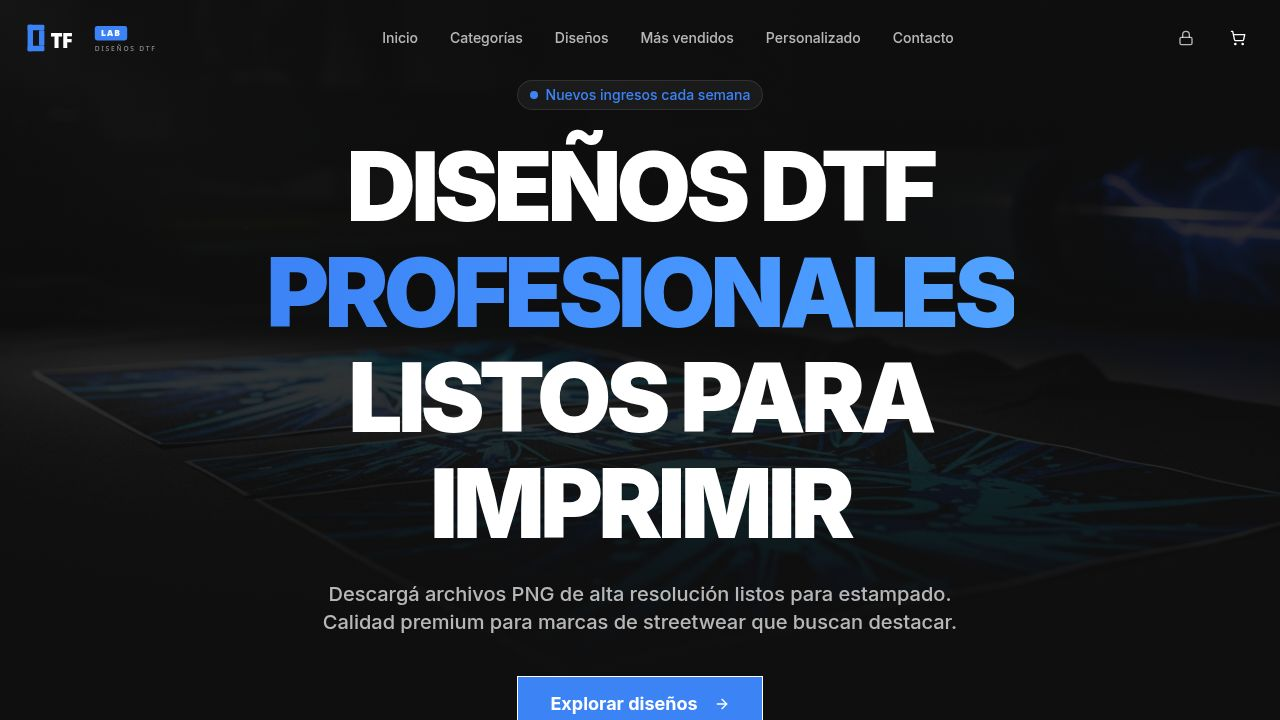
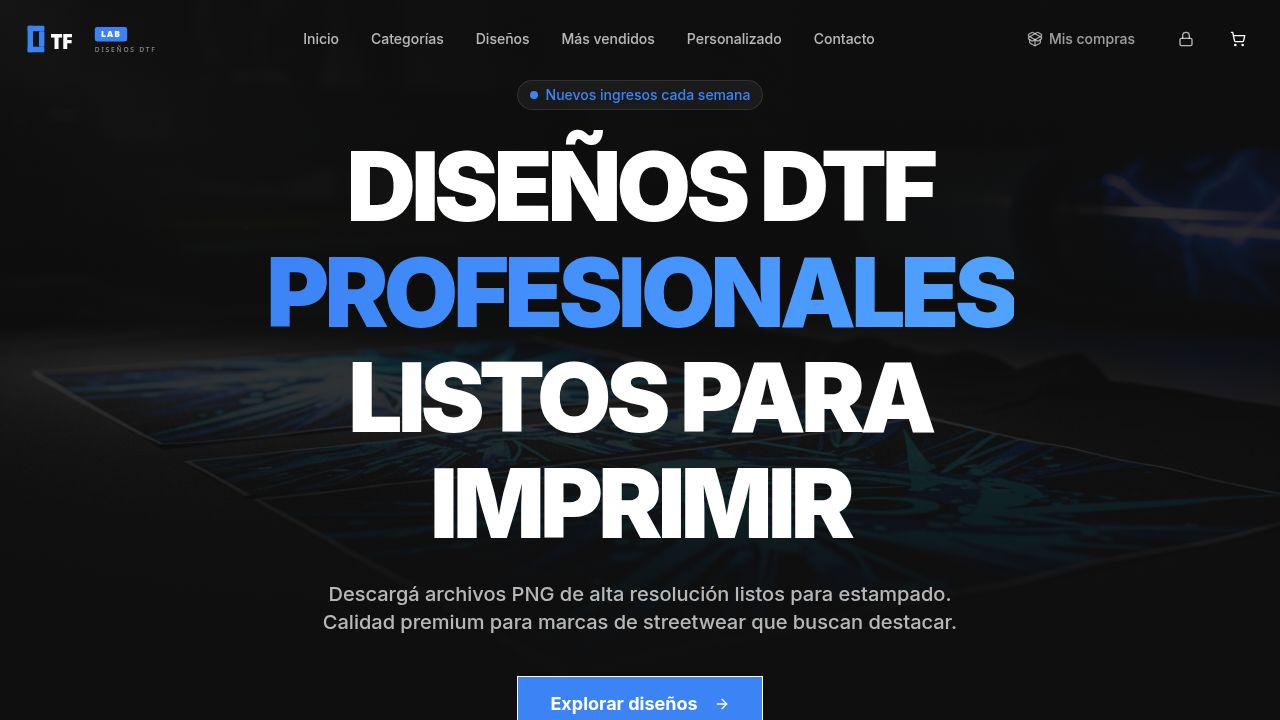
feat: add /mis-compras page so buyers can re-download their files
Task: Permitir que compradores descarguen sus archivos desde el panel de historial de compras

## What was done

### Backend (artifacts/api-server/src/routes/orders.ts)
- Added public GET /orders/by-email?email=... endpoint
- Validates email format with Zod before querying the DB
- Returns all "paid" orders for the given email with: invoiceNumber, customerName,
  items (name/quantity/price/imagePath/filePath), total, paymentMethod, createdAt
- Does NOT expose internal order UUIDs to minimise attack surface
- Placed BEFORE the existing GET /orders/:id route to prevent route shadowing
  (Express would otherwise match "by-email" as the :id param and hit requireAuth)
- Added `import { z } from "zod"` to the imports

### Frontend (artifacts/dreamstorm/src/)
- Created new page: src/pages/MisCompras.tsx
  - Email input form with mail icon, validation, loading spinner
  - Calls GET /api/orders/by-email on submit
  - Displays list of paid orders grouped by invoice, each item with thumbnail,
    name, quantity, price, and a "Descargar" button linking to the file
  - Empty-state and error-state UIs
  - Matches the dark theme (bg-background, white/N text utilities, primary blue)
  - Uses Header/Footer components like all other pages
  - URL building uses toStorageUrl() helper that conditionally prefixes
    /api/storage only for /objects/ or /public-objects/ paths — matching the
    same guard used in DesignMarquee.tsx to handle any legacy paths safely
[…]

Changed region(s): [[0.25, 0.0306, 0.75, 0.0611], [0.7812, 0.0306, 0.9062, 0.0611], [0.0625, 0.0306, 0.0938, 0.0611]]

diff --git a/artifacts/dreamstorm/src/pages/MisCompras.tsx b/artifacts/dreamstorm/src/pages/MisCompras.tsx
@@ -1,0 +1,244 @@
+import { useState, FormEvent } from "react";
+import { Download, Mail, ArrowLeft, ShoppingBag, Loader2, PackageOpen } from "lucide-react";
+import { Button } from "@/components/ui/button";
+import { Input } from "@/components/ui/input";
+import { Header } from "@/components/storefront/Header";
+import { Footer } from "@/components/storefront/Footer";
+import { useLocation } from "wouter";
+
+const BASE = (import.meta.env.BASE_URL ?? "/").replace(/\/$/, "");
+
+interface OrderItem {
+  productId: string;
+  name: string;
+  price: number;
+  quantity: number;
+  imagePath: string;
+  filePath?: string | null;
+}
+
+interface PurchaseOrder {
+  invoiceNumber: number;
+  customerName: string;
+  items: OrderItem[];
+  total: number;
+  paymentMethod: string;
+  createdAt: string;
+}
+
+function formatMethod(method: string): string {
+  const map: Record<string, string> = {
+    mercadopago: "Mercado Pago",
+    uala: "Ualá Bis",
+    paypal: "PayPal",
+  };
+  return map[method] ?? method;
+}
+
+function formatDate(iso: string): string {
+  return new Date(iso).toLocaleDateString("es-AR", {
+    day: "2-digit",
+    month: "long",
+    year: "numeric",
+  });
+}
+
+export default function MisCompras() {
+  const [, navigate] = useLocation();
+  const [email, setEmail] = useState("");
+  const [orders, setOrders] = useState<PurchaseOrder[] | null>(null);
+  const [loading, setLoading] = useState(false);
+  const [error, setError] = useState<string | null>(null);
+  const [searched, setSearched] = useState(false);
+
+  async function handleSubmit(e: FormEvent) {
+    e.preventDefault();
+    const trimmed = email.trim();
+    if (!trimmed) return;
+
+    setLoading(true);
+    setError(null);
+    setOrders(null);
+    setSearched(false);
+
+    try {
+      const res = await fetch(
+        `${BASE}/api/orders/by-email?email=${encodeURIComponent(trimmed)}`
+      );
+      if (!res.ok) {
+        const body = (await res.json()) as { error?: string };
+        setError(body.error ?? "No se pudieron cargar tus compras.");
+        return;
+      }
+      const data = (await res.json()) as PurchaseOrder[];
+      setOrders(data);
+      setSearched(true);
+    } catch {
+      setError("No se pudo conectar al servidor. Intentá de nuevo.");
+    } finally {
+      setLoading(false);
+    }
+  }
+
+  function toStorageUrl(path: string): string {
+    if (path.startsWith("/objects/") || path.startsWith("/public-objects/")) {
+      return `${BASE}/api/storage${path}`;
+    }
+    return path;
+  }
+
+  function downloadUrl(item: OrderItem): string {
+    return toStorageUrl(item.filePath ?? item.imagePath);
+  }
+
+  return (
+    <main className="min-h-screen bg-background flex flex-col font-sans">
+      <Header />
+
+      <div className="flex-1 px-4 py-16 max-w-2xl mx-auto w-full">
+        <button
+          onClick={() => navigate("/")}
+          className="flex items-center gap-2 text-white/40 hover:text-white/70 text-sm mb-10 transition-colors"
+        >
+          <ArrowLeft className="w-4 h-4" />
+          Volver al catálogo
+        </button>
+
+        <div className="mb-10">
+          <div className="flex items-center gap-3 mb-3">
+            <div className="w-10 h-10 bg-primary/15 rounded-lg flex items-center justify-center">
+              <ShoppingBag className="w-5 h-5 text-primary" />
+            </div>
+            <h1 className="text-3xl font-black uppercase tracking-tight text-white">
+              Mis Compras
+            </h1>
+          </div>
+          <p className="text-white/50 text-sm leading-relaxed">
+            Ingresá el email con el que realizaste tu compra para volver a descargar tus diseños.
+          </p>
+        </div>
+
+        <form onSubmit={handleSubmit} className="flex gap-3 mb-10">
+          <div className="relative flex-1">
+            <Mail className="absolute left-3 top-1/2 -translate-y-1/2 w-4 h-4 text-white/30 pointer-events-none" />
+            <Input
+              type="email"
+              placeholder="[email redacted]"
+              value={email}
+              onChange={(e) => setEmail(e.target.value)}
+              required
+              className="pl-10 bg-white/5 border-white/10 text-white placeholder:text-white/30 focus:border-primary"
+            />
+          </div>
+          <Button
+            type="submit"
+            disabled={loading}
+            className="bg-primary hover:bg-primary/90 text-white font-bold uppercase tracking-wider px-6 shrink-0"
+          >
+            {loading ? (
+              <Loader2 className="w-4 h-4 animate-spin" />
+            ) : (
+              "Buscar"
+            )}
+          </Button>
+        </form>
+
+        {error && (
+          <div className="bg-red-500/10 border border-red-500/20 rounded-lg px-4 py-3 text-red-400 text-sm mb-8">
+            {error}
+          </div>
+        )}
+
+        {searched && orders !== null && orders.length === 0 && (
+          <div className="text-center py-20">
+            <div className="w-20 h-20 bg-white/5 rounded-full flex items-center justify-center mx-auto mb-5">
+              <PackageOpen className="w-9 h-9 text-white/20" />
+            </div>
+            <p className="text-white/40 font-medium">No encontramos compras para ese email.</p>
+            <p className="text-white/25 text-sm mt-1">
+              Revisá que el email sea el mismo que usaste al comprar.
+            </p>
+          </div>
+        )}
+
+        {orders && orders.length > 0 && (
+          <div className="space-y-6">
+            <p className="text-white/40 text-sm">
+              {orders.length === 1
+                ? "1 compra encontrada"
+                : `${orders.length} compras encontradas`}
+            </p>
+
+            {orders.map((order) => (
+              <div
+                key={order.invoiceNumber}
+                className="bg-white/[0.03] border border-white/10 rounded-xl overflow-hidden"
+              >
+                <div className="flex items-center justify-between px-5 py-4 border-b border-white/8 bg-white/[0.02]">
+                  <div>
+                    <span className="text-xs font-mono text-white/30 tracking-widest uppercase">
+                      Factura N°
+                    </span>
+                    <span className="ml-2 text-white font-black text-base font-mono">
+                      {String(order.invoiceNumber).padStart(6, "0")}
+                    </span>
+                  </div>
+                  <div className="text-right">
+                    <p className="text-white/30 text-xs">{formatDate(order.createdAt)}</p>
+                    <p className="text-white/50 text-xs mt-0.5">{formatMethod(order.paymentMethod)}</p>
+                  </div>
+                </div>
+
+                <div className="divide-y divide-white/[0.06]">
+                  {order.items.map((item, idx) => (
+                    <div
+                      key={idx}
+                      className="flex items-center justify-between px-5 py-4 gap-4"
+                    >
+                      <div className="flex items-center gap-4 min-w-0">
+                        <img
+                          src={toStorageUrl(item.imagePath)}
+                          alt={item.name}
+                          className="w-12 h-12 rounded-md object-cover bg-white/5 shrink-0"
+                          onError={(e) => {
+                            (e.currentTarget as HTMLImageElement).style.display = "none";
+                          }}
+                        />
+                        <div className="min-w-0">
+                          <p className="text-white text-sm font-semibold truncate">
+                            {item.name}
+                          </p>
+                          <p className="text-white/35 text-xs mt-0.5">
+                            Cant. {item.quantity} · ${item.price.toLocaleString("es-AR")} ARS c/u
+                          </p>
+                        </div>
+                      </div>
+
+                      <a
+                        href={downloadUrl(item)}
+                        download
+                        className="flex items-center gap-2 bg-primary/15 hover:bg-primary/25 text-primary border border-primary/20 hover:border-primary/40 rounded-lg px-3 py-2 text-xs font-bold uppercase tracking-wider transition-colors shrink-0"
+                      >
+                        <Download className="w-3.5 h-3.5" />
+                        Descargar
+                      </a>
+                    </div>
+                  ))}
+                </div>
+
+                <div className="px-5 py-3 border-t border-white/[0.06] flex justify-end">
+                  <span className="text-white/30 text-xs mr-2">Total pagado:</span>
+                  <span className="text-primary font-black text-sm">
+                    ${order.total.toLocaleString("es-AR")} ARS
+                  </span>
+                </div>
+              </div>
+            ))}
+          </div>
+        )}
+      </div>
+
+      <Footer />
+    </main>
+  );
+}

diff --git a/artifacts/api-server/src/routes/orders.ts b/artifacts/api-server/src/routes/orders.ts
@@ -1,5 +1,6 @@
 import { Router, type IRouter } from "express";
 import { eq, desc, sql, and, gte } from "drizzle-orm";
+import { z } from "zod";
 import { db, ordersTable } from "@workspace/db";
 import type { OrderItem } from "@workspace/db";
 import { CreateOrderBody, GetOrderParams } from "@workspace/api-zod";
@@ -156,6 +157,32 @@ router.get("/orders/stats", requireAuth, async (_req, res): Promise<void> => {
     topProducts,
     revenueByMethod: byMethod,
   });
+});
+
+// Public endpoint: returns paid orders for a given buyer email so they can
+// re-download their files without needing the original confirmation email.
+// Only exposes non-sensitive order data (no internal IDs beyond invoiceNumber).
+// IMPORTANT: must be registered before GET /orders/:id to avoid route shadowing.
+router.get("/orders/by-email", async (req, res): Promise<void> => {
+  const parsed = z.object({ email: z.string().email() }).safeParse(req.query);
+  if (!parsed.success) {
+    res.status(400).json({ error: "Email inválido" });
+    return;
+  }
+  const email = parsed.data.email.trim().toLowerCase();
+  const rows = await db
+    .select({
+      invoiceNumber: ordersTable.invoiceNumber,
+      customerName: ordersTable.customerName,
+      items: ordersTable.items,
+      total: ordersTable.total,
+      paymentMethod: ordersTable.paymentMethod,
+      createdAt: ordersTable.createdAt,
+    })
+    .from(ordersTable)
+    .where(and(eq(ordersTable.customerEmail, email), eq(ordersTable.status, "paid")))
+    .orderBy(desc(ordersTable.createdAt));
+  res.json(rows);
 });
 
 router.get("/orders/:id", requireAuth, async (req, res): Promise<void> => {

diff --git a/artifacts/dreamstorm/src/components/storefront/Header.tsx b/artifacts/dreamstorm/src/components/storefront/Header.tsx
@@ -1,6 +1,6 @@
 import { useState, useEffect } from "react";
 import { useLocation } from "wouter";
-import { ShoppingCart, Menu, X, Lock } from "lucide-react";
+import { ShoppingCart, Menu, X, Lock, PackageOpen } from "lucide-react";
 import { Button } from "@/components/ui/button";
 import { useCart } from "./CartContext";
 import { motion, AnimatePresence } from "framer-motion";
@@ -78,6 +78,16 @@ export function Header() {
         <div className="flex items-center gap-4">
           <Button
             variant="ghost"
+            className="hidden md:inline-flex items-center gap-1.5 text-white/60 hover:text-white hover:bg-white/10 text-sm font-medium"
+            onClick={() => navigate("/mis-compras")}
+            title="Ver mis compras"
+          >
+            <PackageOpen className="h-4 w-4" />
+            Mis compras
+          </Button>
+
+          <Button
+            variant="ghost"
             size="icon"
             className="hidden md:inline-flex text-white/70 hover:text-white hover:bg-white/10"
             onClick={() => navigate("/admin")}
@@ -138,6 +148,13 @@ export function Header() {
                   {link.name}
                 </button>
               ))}
+              <button
+                onClick={() => { setIsMobileMenuOpen(false); navigate("/mis-compras"); }}
+                className="flex items-center gap-2 text-lg font-medium text-white/70 hover:text-white text-left py-2"
+              >
+                <PackageOpen className="w-5 h-5" />
+                Mis compras
+              </button>
             </nav>
           </motion.div>
         )}

diff --git a/artifacts/dreamstorm/src/App.tsx b/artifacts/dreamstorm/src/App.tsx
@@ -11,6 +11,7 @@ import SignInPage from "@/pages/SignIn";
 import SignUpPage from "@/pages/SignUp";
 import AdminPage from "@/pages/Admin";
 import CheckoutResult from "@/pages/CheckoutResult";
+import MisCompras from "@/pages/MisCompras";
 
 const PUBLISHABLE_KEY = import.meta.env.VITE_CLERK_PUBLISHABLE_KEY as
   | string
@@ -87,6 +88,7 @@ function App() {
                 <Route path="/checkout/success" component={() => <CheckoutResult type="success" />} />
                 <Route path="/checkout/pending" component={() => <CheckoutResult type="pending" />} />
                 <Route path="/checkout/failure" component={() => <CheckoutResult type="failure" />} />
+                <Route path="/mis-compras" component={MisCompras} />
                 <Route path="/" component={Home} />
                 <Route component={Home} />
               </Switch>